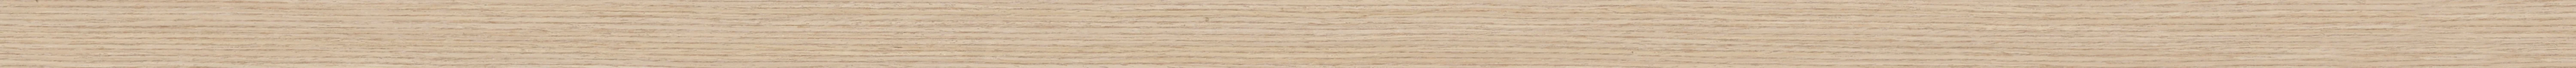
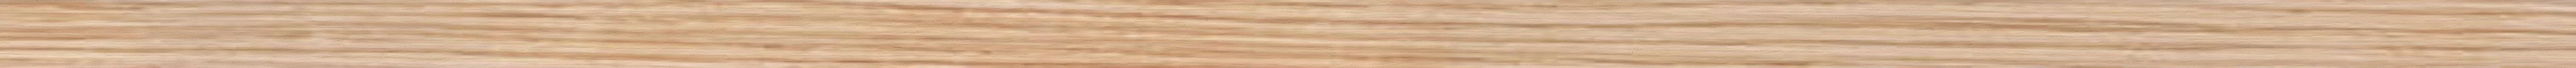
Miniatures builder: dropdown fix, site oak, shadow-only depth, light from top right
- Frame Colour: the theme's dropdown fires change before writing the new value into
  the select, so the frame lagged one choice behind (Wood and Black looked swapped).
  The value is now read once the click has finished.
- Oak is now the website's own wood frame: that frame averaged over 18 product photos,
  each side enlarged, with fine pores from the 8K oak scan for sharpness. Same colour
  and grain pattern as the product photos.
- No inside walls: the box depth is shown by the shadow the frame casts onto the back,
  as in the studio photos. Light from the top right, so the top and right edges carry it.
- Miniature, card and frame shadows now fall down and to the left, a little stronger.

diff --git a/assets/miniatures-builder.css b/assets/miniatures-builder.css
@@ -89,8 +89,8 @@
   /* shadow cast on the wall: a tight contact shadow and a long soft one */
   box-shadow:
     0 1px 2px rgba(0, 0, 0, .18),
-    2px 6px 10px rgba(30, 22, 12, .16),
-    6px 22px 40px -6px rgba(30, 22, 12, .30);
+    -3px 6px 10px rgba(30, 22, 12, .16),
+    -10px 22px 40px -6px rgba(30, 22, 12, .30);
 }
 
 /* Four mitred bars, each with its own high-definition texture stitched from the
@@ -143,51 +143,19 @@
 .mb .mb__frame[data-frame="White"] { background: #ecebe6; }
 .mb .mb__frame[data-frame="Black"] { background: #1e1d1b; }
 
-/* Inside the box frame: four walls running back from the frame, and the back panel
-   the miniatures float on. Lit from above, so the top wall is in shade, the bottom
-   wall catches the light, and the frame throws a soft shadow onto the back panel. */
+/* The back of the box frame. No inside walls show, as in the studio photographs: the
+   depth comes from the shadow the frame casts onto the back. Light comes from the top
+   right, so the top and right bars throw the deepest shadow, the left edge stays light. */
 .mb .mb__mount {
-  --mb-d: calc(var(--mb-cm) * 1.1);             /* how much of each wall shows */
   position: absolute;
   inset: var(--mb-t);
   z-index: 1;
-  overflow: hidden;
-  background: #e6e3dd;
-}
-.mb .mb__wall {
-  position: absolute;
-  z-index: 1;
-  pointer-events: none;
-}
-.mb .mb__wall--t {
-  top: 0; left: 0; right: 0; height: var(--mb-d);
-  clip-path: polygon(0 0, 100% 0, calc(100% - var(--mb-d)) 100%, var(--mb-d) 100%);
-  background: linear-gradient(to bottom, #c9c5bd, #dedad3);
-}
-.mb .mb__wall--b {
-  bottom: 0; left: 0; right: 0; height: var(--mb-d);
-  clip-path: polygon(var(--mb-d) 0, calc(100% - var(--mb-d)) 0, 100% 100%, 0 100%);
-  background: linear-gradient(to top, #f6f4f0, #eeebe6);
-}
-.mb .mb__wall--l {
-  top: 0; bottom: 0; left: 0; width: var(--mb-d);
-  clip-path: polygon(0 0, 100% var(--mb-d), 100% calc(100% - var(--mb-d)), 0 100%);
-  background: linear-gradient(to right, #d8d4cd, #e6e3dd);
-}
-.mb .mb__wall--r {
-  top: 0; bottom: 0; right: 0; width: var(--mb-d);
-  clip-path: polygon(0 var(--mb-d), 100% 0, 100% 100%, 0 calc(100% - var(--mb-d)));
-  background: linear-gradient(to left, #dfdbd4, #ebe8e3);
-}
-.mb .mb__back {
-  position: absolute;
-  inset: var(--mb-d);
-  z-index: 0;
   background: radial-gradient(140% 110% at 75% 0%, #fbfaf8 0%, #f5f4f1 55%, #eeece8 100%);
   box-shadow:
-    inset 0 calc(var(--mb-cm) * 1.6) calc(var(--mb-cm) * 1.8) calc(var(--mb-cm) * -.8) rgba(0, 0, 0, .34),
-    inset calc(var(--mb-cm) * .9) 0 calc(var(--mb-cm) * 1.3) calc(var(--mb-cm) * -.7) rgba(0, 0, 0, .14),
-    inset calc(var(--mb-cm) * -.5) 0 calc(var(--mb-cm) * 1) calc(var(--mb-cm) * -.6) rgba(0, 0, 0, .06),
+    inset 0 calc(var(--mb-cm) * 2.0) calc(var(--mb-cm) * 2.2) calc(var(--mb-cm) * -1.0) rgba(0, 0, 0, .36),
+    inset calc(var(--mb-cm) * -1.6) 0 calc(var(--mb-cm) * 2.0) calc(var(--mb-cm) * -.9) rgba(0, 0, 0, .28),
+    inset calc(var(--mb-cm) * .4) 0 calc(var(--mb-cm) * .8) calc(var(--mb-cm) * -.6) rgba(0, 0, 0, .05),
+    inset 0 calc(var(--mb-cm) * -.4) calc(var(--mb-cm) * .8) calc(var(--mb-cm) * -.6) rgba(0, 0, 0, .04),
     inset 0 0 0 1px rgba(0, 0, 0, .05);
 }
 /* faint reflection on the glass */
@@ -238,16 +206,16 @@
   outline: 1px solid var(--mb-ink);
   outline-offset: calc(var(--mb-cm) * .35);
 }
-/* Each miniature floats off the mount: a crisp contact shadow plus a softer
-   one falling down and to the right, as in the studio photographs. */
+/* Each miniature floats off the back: a crisp contact shadow plus a softer one
+   falling down and to the left, as in the studio photographs (light from top right). */
 .mb .mb__cell img {
   width: 100%;
   height: 100%;
   object-fit: contain;
   pointer-events: none;
   filter:
-    drop-shadow(calc(var(--mb-cm) * .06) calc(var(--mb-cm) * .12) calc(var(--mb-cm) * .1) rgba(40, 30, 20, .40))
-    drop-shadow(calc(var(--mb-cm) * .45) calc(var(--mb-cm) * .95) calc(var(--mb-cm) * .9) rgba(40, 30, 20, .34));
+    drop-shadow(calc(var(--mb-cm) * -.08) calc(var(--mb-cm) * .12) calc(var(--mb-cm) * .1) rgba(40, 30, 20, .45))
+    drop-shadow(calc(var(--mb-cm) * -.6) calc(var(--mb-cm) * .9) calc(var(--mb-cm) * .75) rgba(40, 30, 20, .42));
 }
 /* Drag to swap */
 #root .mb .mb__cell.is-filled { cursor: grab; -webkit-touch-callout: none; }
@@ -264,7 +232,7 @@
   z-index: 10000;
   object-fit: contain;
   pointer-events: none;
-  filter: drop-shadow(2px 6px 8px rgba(40, 30, 20, .35));
+  filter: drop-shadow(-4px 7px 8px rgba(40, 30, 20, .38));
 }
 /* Remove: a small round cross on the stamp's top right corner. Shown on the
    selected stamp, and on hover where there is a mouse. */
@@ -612,7 +580,7 @@
   max-width: 100%;
   max-height: 100%;
   object-fit: contain;
-  filter: drop-shadow(1px 2px 1.5px rgba(40, 30, 20, .30)) drop-shadow(4px 8px 9px rgba(40, 30, 20, .22));
+  filter: drop-shadow(-1px 2px 1.5px rgba(40, 30, 20, .32)) drop-shadow(-5px 8px 8px rgba(40, 30, 20, .26));
 }
 .mb .mb__card-name {
   margin-top: 8px;

diff --git a/assets/miniatures-builder.js b/assets/miniatures-builder.js
@@ -154,9 +154,13 @@ if (!customElements.get('miniatures-builder')) {
 
       this.el.generate.addEventListener('click', () => this.generate());
 
-      /* The theme turns this into its own dropdown on desktop and fires change on the select. */
+      /* The theme turns this into its own dropdown on desktop. Its option links fire
+         change before the dropdown writes the new value into the select, so read the
+         value once the click has finished, or it lags one choice behind. */
       if (this.el.frameSelect) {
-        this.el.frameSelect.addEventListener('change', () => this.setFrame(this.el.frameSelect.value));
+        this.el.frameSelect.addEventListener('change', () => {
+          setTimeout(() => this.setFrame(this.el.frameSelect.value), 0);
+        });
       }
 
       this.el.categories.addEventListener('click', (event) => {
